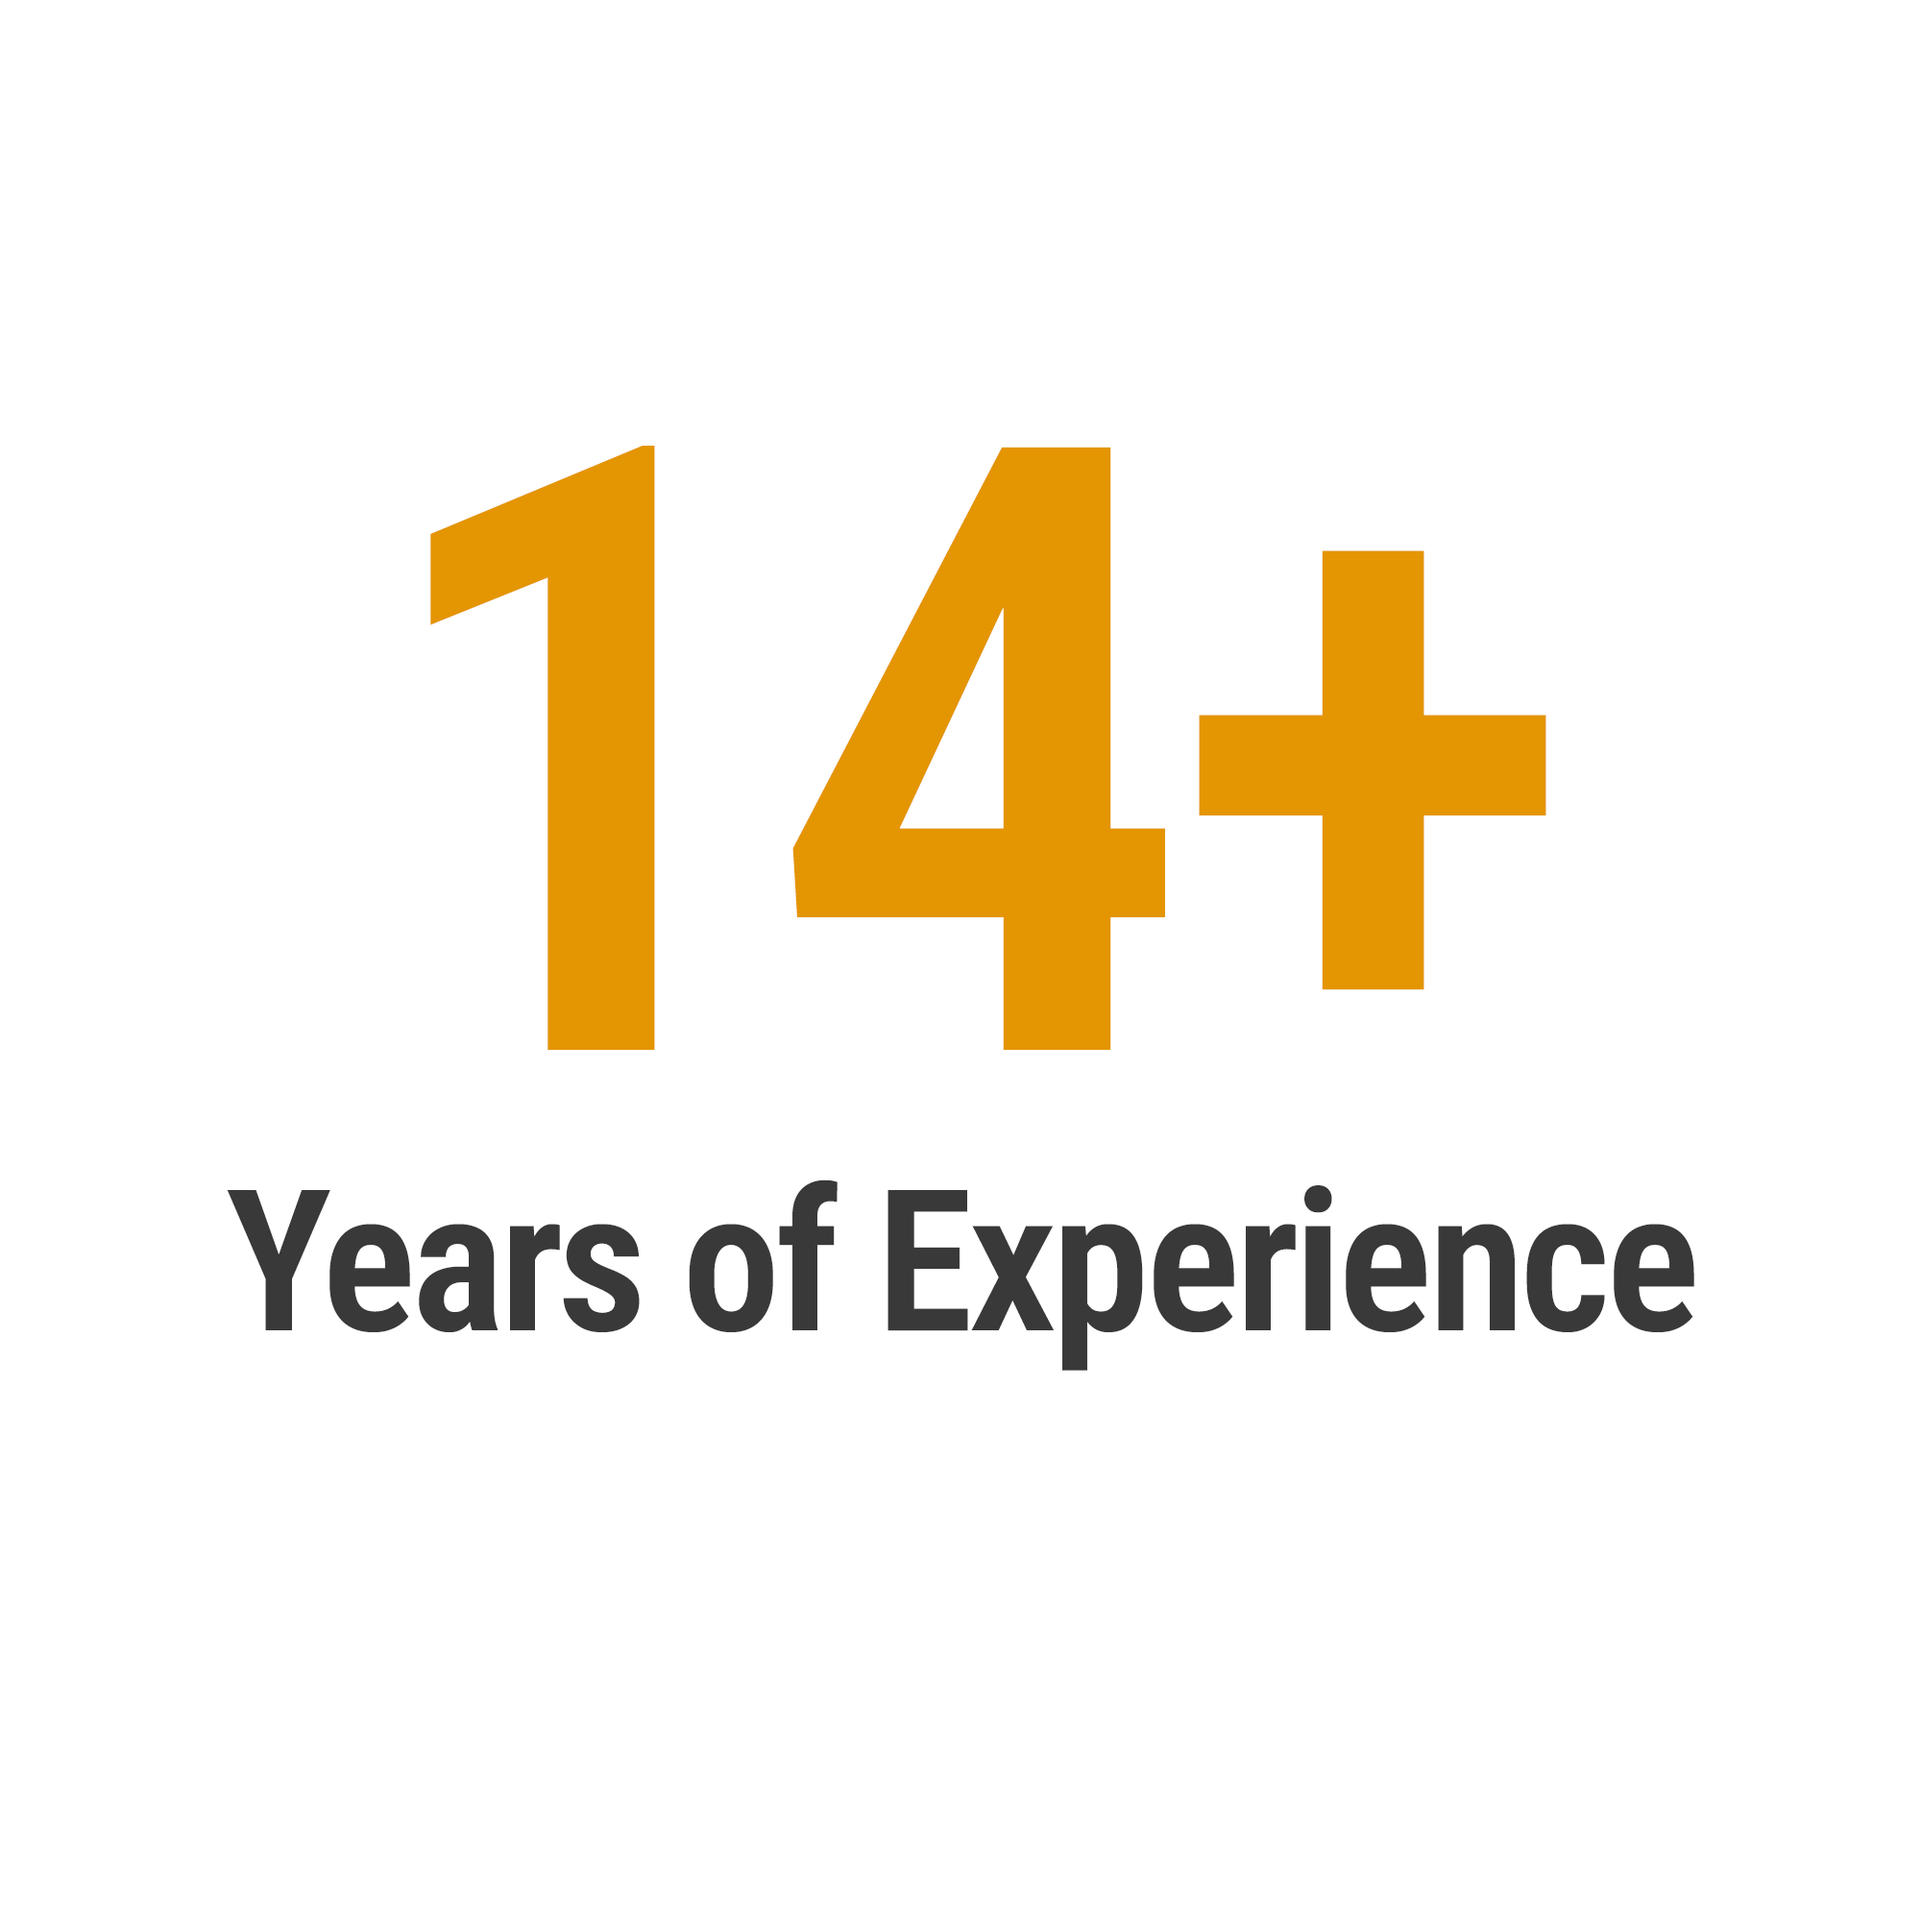
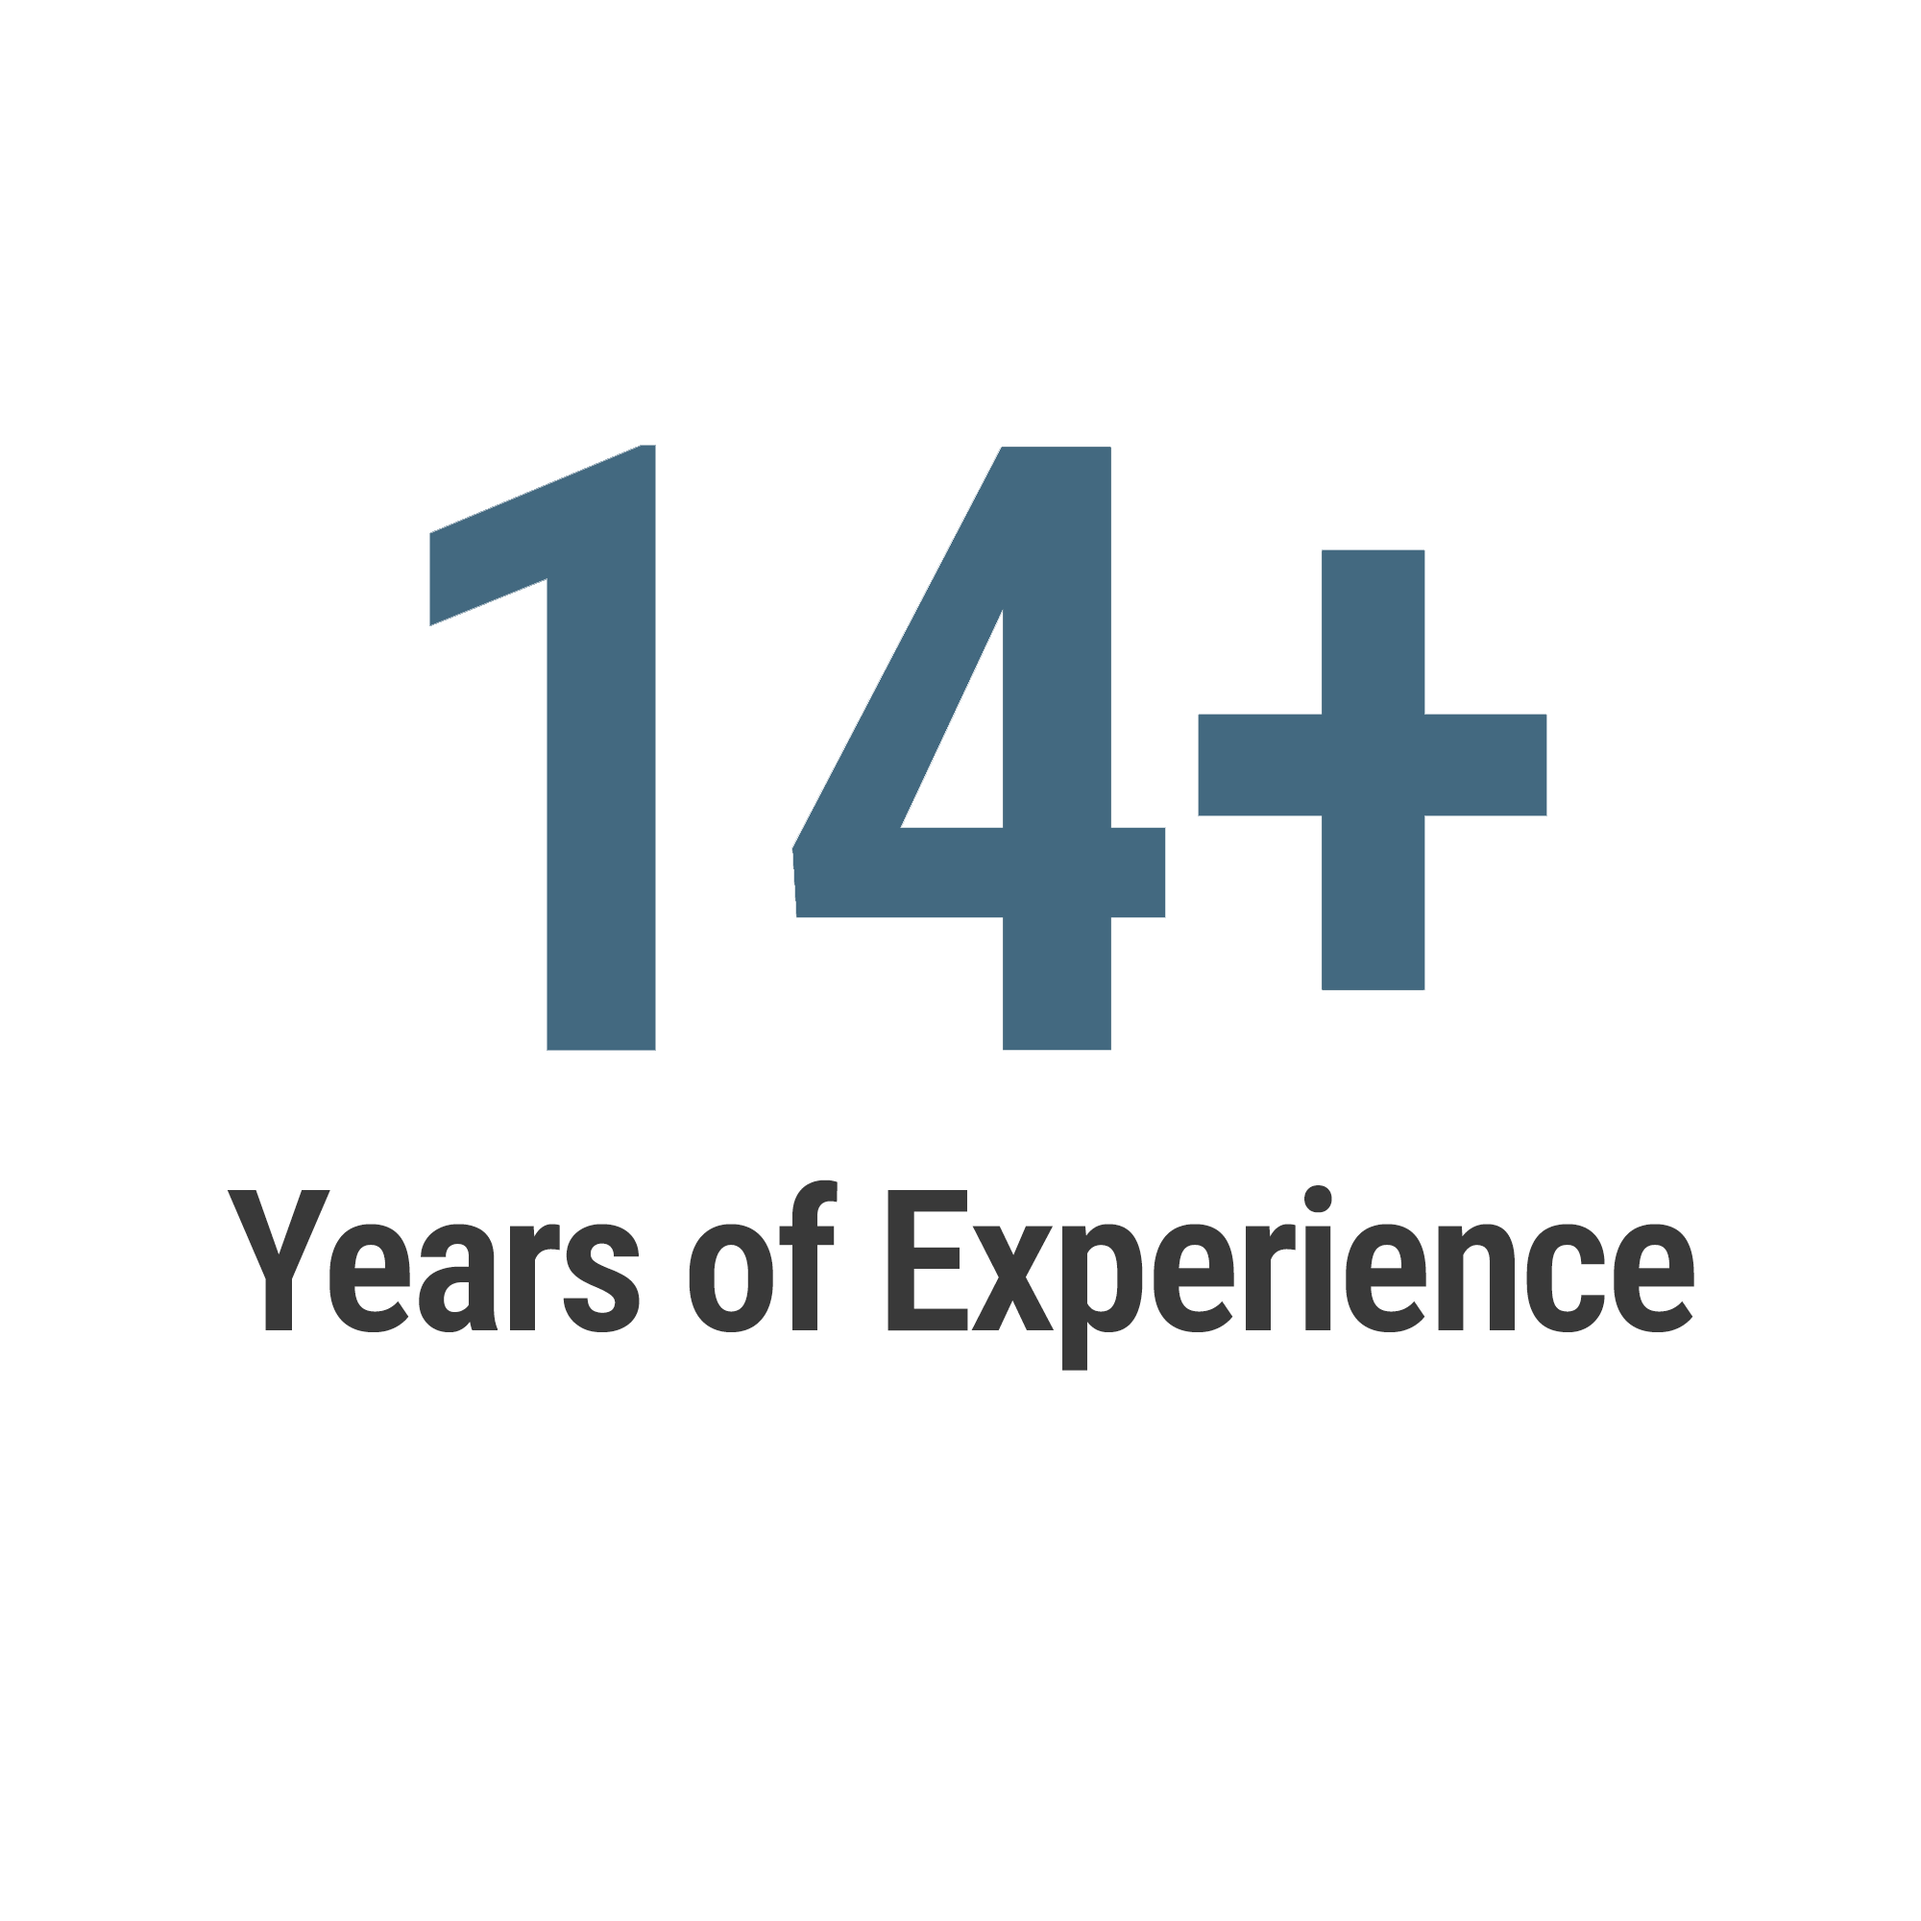
cambios totales

Changed region(s): [[0.403, 0.217, 0.62, 0.558], [0.217, 0.217, 0.341, 0.558], [0.62, 0.279, 0.806, 0.527]]

diff --git a/index.html b/index.html
@@ -67,15 +67,18 @@
     <!--    IMAGES SECTION -->   
 
     <div class="prueba">
-        <img src="assets/img/prueba.png" alt="">
+        <div class="prueba1">
+            <img src="assets/img/prueba.png" alt="">
+        </div>
+    </div>
+
+    <div class="images">
+        <img src="assets/img/img1.webp" alt="">
+        <img src="assets/img/img2.webp" alt="">
+        <img src="assets/img/img3.webp" alt="">
+        <img src="assets/img/img4.webp" alt="">
     </div>
     <div class=img-section>
-        <div class="images">
-            <img src="assets/img/img1.webp" alt="">
-            <img src="assets/img/img2.webp" alt="">
-            <img src="assets/img/img3.webp" alt="">
-            <img src="assets/img/img4.webp" alt="">
-        </div>
         <div class="img-text" id="aboutt">
             <h5>WHO WE ARE</h5>
             <h1>FRAMING, SHEETROCK / PLYWOOD, CELINGS</h1>
@@ -100,17 +103,22 @@
             <a href="#">Contact</a>
         </div>
         <div class="cards">
-            <div class="card">
-                <div class="imagens">
-                    <img src="assets/img/icon/vision.png" alt="">
+            <a href="about.html#aboutcard">
+                <div class="card">
+                    <div class="imagens">
+                        <img src="assets/img/icon/vision.png" alt="">
+                    </div>
+                    <h1>Our Vision</h1>
                 </div>
-                <h1>Our Vision</h1>
-            </div><div class="card">
-                <div class="imagens">
-                    <img src="assets/img/icon/mision.png" alt="">
+            </a>
+            <a href="about.html#aboutcard">
+                <div class="card">
+                    <div class="imagens">
+                        <img src="assets/img/icon/mision.png" alt="">
+                    </div>
+                    <h1>Our Mision</h1>
                 </div>
-                <h1>Our Mision</h1>
-            </div>
+            </a>
         </div>
     </div>
 
@@ -163,6 +171,7 @@
             <h4>know our jobs</h4>
             <h1>Teamwork makes the dream work.</h1>
         </div>
+        
         <div class="jobs-img">
             <img src="assets/img/img-jobs/job1.webp" alt="">
             <img src="assets/img/img-jobs/job2.webp" alt="">
@@ -176,6 +185,14 @@
             <img src="assets/img/img-jobs/job10.webp" alt="">
             <img src="assets/img/img-jobs/job11.webp" alt="">
             <img src="assets/img/img-jobs/job12.webp" alt="">
+            <img src="assets/img/img-jobs/job13.webp" alt="">
+            <img src="assets/img/img-jobs/job14.webp" alt="">
+            <img src="assets/img/img-jobs/job15.webp" alt="">
+            <img src="assets/img/img-jobs/job16.webp" alt="">
+            <img src="assets/img/img-jobs/job17.webp" alt="">
+            <img src="assets/img/img-jobs/job18.webp" alt="">
+            <img src="assets/img/img-jobs/job19.webp" alt="">
+            <img src="assets/img/img-jobs/job20.webp" alt="">
         </div>
     </div>
 

diff --git a/style.css b/style.css
@@ -222,28 +222,30 @@ nav ul li a.active {
 
 .images {
     display: flex;
-    width: 50%;
-    flex-flow: wrap;
-    margin-left: 3em;
+    justify-content: space-between;
+    width: 100%;
+    padding: 0px 60px;
 }
 
 .images img {
     width: 18.5em;
     height: 15em;
     object-fit: cover;
-    padding: 7px;
+    padding: 1px 7px;
 }
 
 .prueba {
+    width: 100%;
     position: absolute;
-    height: 0px;
-    top: 865px;
-    right: 885px;
+    display: flex;
+    justify-content: center;
+    align-items: center;
+    height: 240px;
 }
 
-.prueba img {
-    width: 15em;
-    height: 15em;
+.prueba1 img {
+    width: 17em;
+    height: 17em;
     object-fit: cover;
 }
 
@@ -251,9 +253,10 @@ nav ul li a.active {
 
 
 .img-text {
-    width: 50%;
+    width: 100%;
     font-family: 'Roboto Slab';
     padding: 70px 100px 0px 50px;
+    text-align: center;
 }
 
 .img-text h1 {
@@ -264,20 +267,20 @@ nav ul li a.active {
 .img-text h5 {
     padding-bottom: 20px;
     font-weight: 900;
-    color: #e49502;
+    color: #436980;
 }
 
 .img-text a {
     color: white;
     text-decoration: none;
-    background-color: #e49502;
+    background-color: #436980;
     border-radius: 5px;
     padding: 10px 10px;
 }
 
 .img-text a:hover {
     transition: .5s;
-    background-color: #744b00;
+    background-color: #022135;
 }
 
 
@@ -333,12 +336,14 @@ nav ul li a.active {
 
 .cards {
     display: flex;
+    justify-content: space-between;
+    align-items: center;
     width: 50%;
+    margin-right: 20px;
 }
 
 .card {
     padding: 10px 30px;
-    margin: 0px 30px;
     box-shadow: 2px 0px 60px 0px rgba(0, 0, 0, 0.199);
     width: 300px;
     height: 200px;
@@ -346,7 +351,7 @@ nav ul li a.active {
 
 .card:hover {
     transition: .5s;
-    transform: scale(1.1);
+    transform: scale(1.03);
 }
 
 .card h1 {
@@ -363,6 +368,11 @@ nav ul li a.active {
 .card img {
     width: 5em;
     height: 5em;
+}
+
+.cards a {
+    text-decoration: none;
+    color: #1a425a;
 }
 
 
@@ -489,7 +499,14 @@ nav ul li a.active {
     width: 18em;
     height: 16em;
     object-fit: cover;
-    padding: 5px;
+    margin: 7px;
+    border-radius: 5px;
+}
+
+.jobs-img img:hover {
+    transform: scale(1.3);
+    transition: .5s;
+    box-shadow: 0px 0px 30px 0px black;
 }
 
 

diff --git a/about.html b/about.html
@@ -88,7 +88,7 @@
                     <strong>Gustavo Perez.</strong>
                 </p>
             </div>
-            <div class="about-general">
+            <div class="about-general" id="aboutcard">
                 <div class="cards">
                     <div class="card">
                         <div class="imagens">

diff --git a/assets/js/main.js b/assets/js/main.js
@@ -1,0 +1,7 @@
+document.addEventListener('DOMContentLoaded', () => {
+	const imgLightBox = document.querySelectorAll('.materialboxed');
+	M.Materialbox.init(imgLightBox, {
+		inDuration: 500,
+		outDuration: 500
+	});
+});
